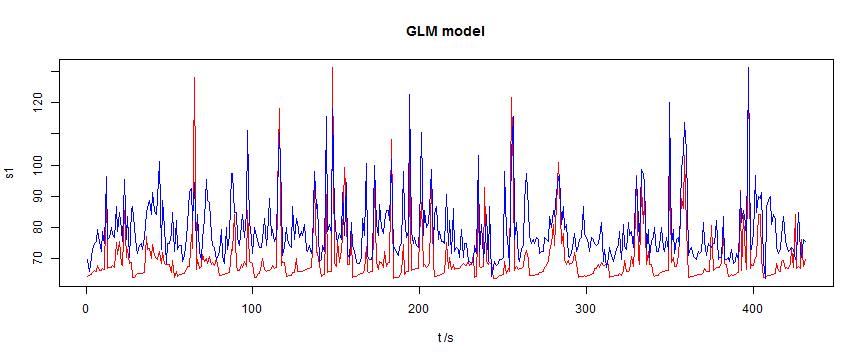
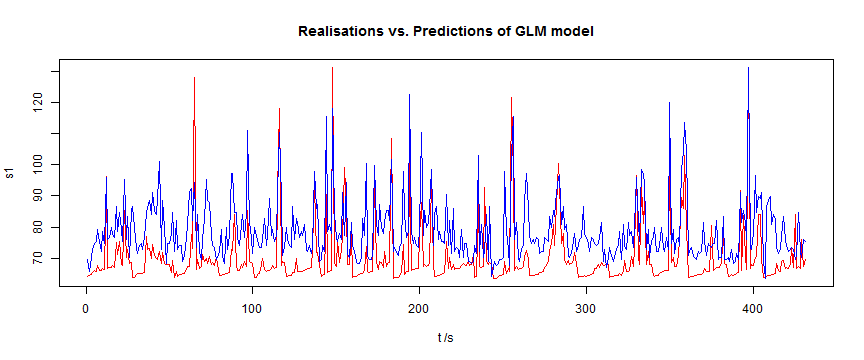
Second commit

Changed region(s): [[0.3438, 0.0611, 0.6875, 0.1222], [0.0312, 0.5194, 0.0625, 0.5806], [0.0312, 0.4278, 0.0625, 0.4889]]

diff --git a/index.html b/index.html
@@ -44,11 +44,11 @@
     <!-- SLIDES -->
     <slide class="" id="slide-1" style="background:;">
   <hgroup>
-    <h2>Fitbit measures your activity, this apps provides insights in your activity</h2>
+    <h2>Fitbit measures your activity, this apps provides deeper insights about your heart rate</h2>
   </hgroup>
   <article data-timings="">
     <ul>
-<li>The Fitbit Charge Hr Monitor heart rate automatically and continuously right on your wrist. </li>
+<li>The Fitbit Charge Hr monitors the heart rate automatically and continuously. </li>
 <li>It also measures steps, distance, calories burned, stairs climbed and active minutes. </li>
 <li>The fitbit website provides stats and figures about these activities. </li>
 </ul>
@@ -61,7 +61,7 @@ This applicition provides the ability to investigate the activities in relation 
 <li><p>Which activities influence the heart rate? And by how much?</p></li>
 <li><p>Which explanatory variabels should be taken into account when predicting the heart rate?</p></li>
 <li><p>Which model predicts the heart rate the best? </p></li>
-<li><p>What is the predicted heart when at a given set of values for each of the variables?</p></li>
+<li><p>What is the predicted heart at a given set of values for eacht of the variables?</p></li>
 </ol>
 
   </article>
@@ -84,7 +84,7 @@ This applicition provides the ability to investigate the activities in relation 
 <li>Hour of the day</li>
 </ul>
 
-<p>In the graph below the relationship between Hour of the day and heart rate is shown.</p>
+<p>In the graph below an example is shown. It displays the relationship between Hour of the day and heart rate.</p>
 
 <p><img src="assets/fig/plot-1.png" alt="plot of chunk plot"></p>
 
@@ -94,10 +94,10 @@ This applicition provides the ability to investigate the activities in relation 
 
 <slide class="class" id="id" style="background:;">
   <hgroup>
-    <h2>Predict your heart rate with</h2>
+    <h2>Model your heart rate with different models and variables (1/2)</h2>
   </hgroup>
   <article data-timings="">
-    <p>In the Heart rate prediction tab allows the user to find the best model to predict the heart rate. You can select two different models (knn and glm), 5 different variables (Distance, Floors , Calories burned, Step count, Active Minutes , Day of the week, Hour), and predict the heart rate for selected values of these variables.
+    <p>The Heart rate prediction tab challenges the user to find the best model to predict the heart rate. You can select two different models (knn and glm), 5 different variables (Distance, Floors , Calories burned, Step count, Active Minutes , Day of the week, Hour), and predict the heart rate for selected values of the selected variables.
 The graph below shows the realized and predicted heart rate for the GLM model on the testing set, which contains of 25% of the total dataset. </p>
 
 <p><img src="assets/fig/plot1-1.png" alt="plot of chunk plot1"></p>
@@ -110,7 +110,7 @@ The graph below shows the realized and predicted heart rate for the GLM model on
 
 <slide class="class" id="id" style="background:;">
   <hgroup>
-    <h2>Which models performs best</h2>
+    <h2>Model your heart rate with different models and variables (2/2)</h2>
   </hgroup>
   <article data-timings="">
     <p>The graph below shows the realized and predicted heart rate for the KNN model on the testing set, which contains of 25% of the total dataset. </p>
@@ -128,9 +128,9 @@ The graph below shows the realized and predicted heart rate for the GLM model on
     <h2>Find out which model performs best and estimate your own heart rate</h2>
   </hgroup>
   <article data-timings="">
-    <p>This app can help you find the model that best estimates the heart rate. 
-It totally gives the user all control and let the user play with the model. 
-This will give the user insight in the relationship between heart rate and activities.</p>
+    <p>This app helps you find the model that best estimates the heart rate. 
+It gives the user the ability to play with the models and variables. 
+This will give the user insights in the relationship between heart rate and their activities.</p>
 
 <h3>Points for improvement:</h3>
 
@@ -140,7 +140,7 @@ This will give the user insight in the relationship between heart rate and activ
 <li><p>Provide insights regarding variable importance</p></li>
 <li><p>Add model explanation</p></li>
 <li><p>Add more model options and methods</p></li>
-<li><p>And 100 more improvements</p></li>
+<li><p>And 100+ more improvements:)</p></li>
 </ul>
 
   </article>
@@ -149,7 +149,9 @@ This will give the user insight in the relationship between heart rate and activ
 
 <slide class="class" id="id" style="background:;">
   <article data-timings="">
-    
+    <pre><code>publish(title = &#39;Fitbit heart rate analyses app&#39;, &#39;index.html&#39;, host = &#39;rpubs&#39;)
+</code></pre>
+
   </article>
   <!-- Presenter Notes -->
 </slide>
@@ -160,7 +162,7 @@ This will give the user insight in the relationship between heart rate and activ
     <ul>
       <li>
       <a href="#" target="_self" rel='tooltip' 
-        data-slide=1 title='Fitbit measures your activity, this apps provides insights in your activity'>
+        data-slide=1 title='Fitbit measures your activity, this apps provides deeper insights about your heart rate'>
          1
       </a>
     </li>
@@ -172,13 +174,13 @@ This will give the user insight in the relationship between heart rate and activ
     </li>
     <li>
       <a href="#" target="_self" rel='tooltip' 
-        data-slide=3 title='Predict your heart rate with'>
+        data-slide=3 title='Model your heart rate with different models and variables (1/2)'>
          3
       </a>
     </li>
     <li>
       <a href="#" target="_self" rel='tooltip' 
-        data-slide=4 title='Which models performs best'>
+        data-slide=4 title='Model your heart rate with different models and variables (2/2)'>
          4
       </a>
     </li>

diff --git a/index.md b/index.md
@@ -13,9 +13,9 @@ widgets: []
 ---
 
 
-## Fitbit measures your activity, this apps provides insights in your activity
+## Fitbit measures your activity, this apps provides deeper insights about your heart rate
 
-* The Fitbit Charge Hr Monitor heart rate automatically and continuously right on your wrist. 
+* The Fitbit Charge Hr monitors the heart rate automatically and continuously. 
 * It also measures steps, distance, calories burned, stairs climbed and active minutes. 
 * The fitbit website provides stats and figures about these activities. 
 
@@ -29,7 +29,7 @@ This applicition provides the ability to investigate the activities in relation 
 
 3. Which model predicts the heart rate the best? 
 
-4. What is the predicted heart when at a given set of values for each of the variables?
+4. What is the predicted heart at a given set of values for eacht of the variables?
 
 --- .class #id 
 
@@ -47,15 +47,15 @@ The Exploratory graphs tab of the  "Fitbit heart rate analyses app" provides ins
 * Day of the week
 * Hour of the day
 
-In the graph below the relationship between Hour of the day and heart rate is shown.
+In the graph below an example is shown. It displays the relationship between Hour of the day and heart rate.
 
 ![plot of chunk plot](assets/fig/plot-1.png)
 
 --- .class #id 
 
-## Predict your heart rate with 
+## Model your heart rate with different models and variables (1/2)
 
-In the Heart rate prediction tab allows the user to find the best model to predict the heart rate. You can select two different models (knn and glm), 5 different variables (Distance, Floors , Calories burned, Step count, Active Minutes , Day of the week, Hour), and predict the heart rate for selected values of these variables.
+The Heart rate prediction tab challenges the user to find the best model to predict the heart rate. You can select two different models (knn and glm), 5 different variables (Distance, Floors , Calories burned, Step count, Active Minutes , Day of the week, Hour), and predict the heart rate for selected values of the selected variables.
 The graph below shows the realized and predicted heart rate for the GLM model on the testing set, which contains of 25% of the total dataset. 
 
 
@@ -66,7 +66,7 @@ The Out of sample R-squared of the GLM model is 0.53.
 
 --- .class #id 
 
-## Which models performs best
+## Model your heart rate with different models and variables (2/2)
 
 The graph below shows the realized and predicted heart rate for the KNN model on the testing set, which contains of 25% of the total dataset. 
 
@@ -79,9 +79,9 @@ The out of sample Rsquared of the KNN model is 0.56
 
 ## Find out which model performs best and estimate your own heart rate
  
-This app can help you find the model that best estimates the heart rate. 
-It totally gives the user all control and let the user play with the model. 
-This will give the user insight in the relationship between heart rate and activities.
+This app helps you find the model that best estimates the heart rate. 
+It gives the user the ability to play with the models and variables. 
+This will give the user insights in the relationship between heart rate and their activities.
 
 ### Points for improvement:
 
@@ -95,10 +95,10 @@ This will give the user insight in the relationship between heart rate and activ
 
 * Add more model options and methods
 
-* And 100 more improvements
+* And 100+ more improvements:)
 
 --- .class #id 
-
+    publish(title = 'Fitbit heart rate analyses app', 'index.html', host = 'rpubs')
 
 
 
